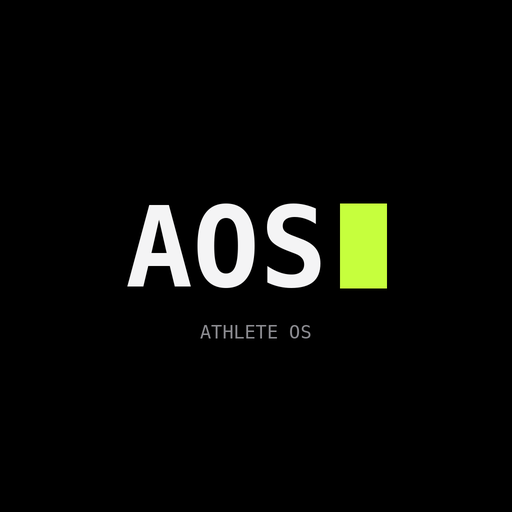
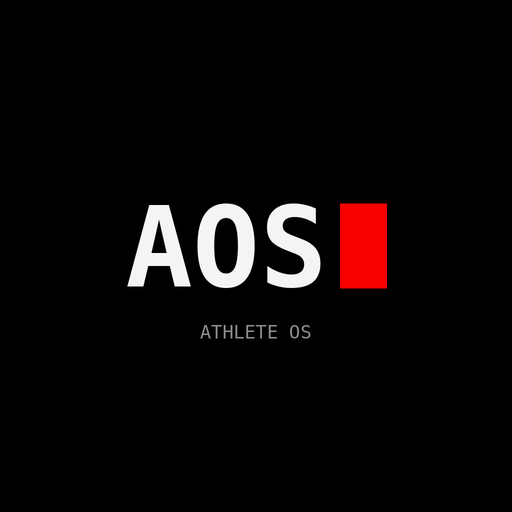
Design: Vereinsrot der Red Tigers (#F60100, Tiefrot #BB271B) statt Lime, Fehler in Orange mit ⚠, App-Symbol rot
Claude-Session: https://claude.ai/code/session_01UpkBZMUu6Uj98YywTxktUF

Changed region(s): [[0.6562, 0.375, 0.7812, 0.5625]]

diff --git a/index.html b/index.html
@@ -4,8 +4,8 @@
 <meta charset="utf-8">
 <meta name="viewport" content="width=device-width, initial-scale=1, viewport-fit=cover">
 <link rel="manifest" href="manifest.webmanifest">
-<link rel="apple-touch-icon" href="apple-touch-icon.png?v=2">
-<link rel="icon" type="image/png" sizes="192x192" href="icon-192.png?v=2">
+<link rel="apple-touch-icon" href="apple-touch-icon.png?v=3">
+<link rel="icon" type="image/png" sizes="192x192" href="icon-192.png?v=3">
 <meta name="theme-color" content="#000000">
 <meta name="apple-mobile-web-app-capable" content="yes">
 <meta name="mobile-web-app-capable" content="yes">
@@ -144,7 +144,7 @@ details summary{cursor:pointer;color:var(--accent);margin:6px 0}
   --text:#f4f4f5; --muted:#8b8b90; --faint:#55555a;
   --line:rgba(255,255,255,.09); --line2:rgba(255,255,255,.16);
   --accent:#f4f4f5; --accent-ink:#000; --accent-soft:rgba(255,255,255,.08);
-  --warn:#e3b45c; --warn-soft:rgba(227,180,92,.10); --bad:#ff6b6b; --bad-soft:rgba(255,107,107,.10);
+  --warn:#e3b45c; --warn-soft:rgba(227,180,92,.10); --bad:#FF8A1F; --bad-soft:rgba(255,138,31,.12);
   --info:#c9c9ce; --info-soft:rgba(255,255,255,.05);
   --radius:20px;
   --font:-apple-system,BlinkMacSystemFont,"SF Pro Text","SF Pro Display","Inter","Helvetica Neue",Arial,sans-serif;
@@ -189,7 +189,7 @@ button:active{transform:scale(.98)}
 button.primary{background:#f4f4f5;color:#000;border-color:#f4f4f5;font-weight:600}
 button.primary:hover{background:#fff}
 button.block{display:block;width:100%}
-button.danger{color:var(--bad);border-color:rgba(255,107,107,.4)}
+button.danger{color:var(--bad);border-color:rgba(255,138,31,.45)}
 button.link{color:var(--text);text-decoration:none;border-bottom:1px solid var(--line2);border-radius:0;padding:2px 0;margin:0 2px;min-height:auto}
 button.small{padding:6px 14px;min-height:36px;font-size:.84rem}
 button.chip{border-radius:999px;background:transparent;border:1px solid var(--line2);color:var(--text);min-height:40px;padding:7px 15px;font-size:.88rem}
@@ -213,7 +213,7 @@ details[open]>summary::before{content:'–'}
 .badge.ok{color:var(--text);border-color:rgba(255,255,255,.35);background:transparent}
 .badge.info{color:var(--muted);background:transparent;border-color:var(--line2)}
 .badge.warn{color:var(--warn);border-color:rgba(227,180,92,.4);background:transparent}
-.badge.bad{color:var(--bad);border-color:rgba(255,107,107,.4);background:transparent}
+.badge.bad{color:var(--bad);border-color:rgba(255,138,31,.45);background:transparent}
 .cap{background:transparent;border:1px solid var(--line2);color:var(--text);font-size:.68rem;letter-spacing:.12em;text-transform:uppercase;font-weight:600;padding:4px 10px}
 
 /* Wochenstreifen */
@@ -274,7 +274,7 @@ nav.tabs button[aria-current="page"]{background:var(--surface2);color:var(--text
 }
 
 /* ===== Variante B (Signal) mit Code-Schrift ===== */
-:root{ --font:"SF Mono",ui-monospace,"JetBrains Mono","Roboto Mono",Menlo,Consolas,monospace; --sig:#c6ff3d; --sig-soft:rgba(198,255,61,.12) }
+:root{ --font:"SF Mono",ui-monospace,"JetBrains Mono","Roboto Mono",Menlo,Consolas,monospace; --sig:#F60100; --sig-deep:#BB271B; --sig-ink:#fff; --sig-soft:rgba(246,1,0,.12) }
 body{letter-spacing:0;font-size:15px}
 h1{font-size:1.6rem;letter-spacing:-.02em;font-weight:600}
 h2,.eyebrow,label,th,.badge,.cap{letter-spacing:.08em}
@@ -285,26 +285,26 @@ dialog h2::before{content:none}
 .hero .dot{display:inline-block;width:7px;height:7px;border-radius:50%;background:var(--sig);margin-right:8px;box-shadow:0 0 10px var(--sig);vertical-align:1px}
 .ex-name{font-size:.95rem}
 button,.btn{font-size:.88rem}
-button.primary,button.primary:hover{background:var(--sig);border-color:var(--sig);color:#000}
-button.chip[aria-pressed="true"]{background:var(--sig);border-color:var(--sig);color:#000}
+button.primary,button.primary:hover{background:var(--sig);border-color:var(--sig);color:var(--sig-ink)}
+button.chip[aria-pressed="true"]{background:var(--sig);border-color:var(--sig);color:var(--sig-ink)}
 input:focus,select:focus,textarea:focus{border-color:var(--sig)}
 :focus-visible{outline-color:var(--sig)}
 .weekstrip .day.today{background:transparent;box-shadow:inset 0 0 0 1px var(--sig)}
 .weekstrip .day.today .dn{color:var(--sig)}
 .weekstrip .day.today .wd{color:var(--text)}
-.badge.ok{color:var(--sig);border-color:rgba(198,255,61,.45)}
+.badge.ok{color:var(--text);border-color:rgba(246,1,0,.55)}
 .chart .ln{stroke:var(--sig)} .chart .pt{fill:var(--sig)}
 .brand{letter-spacing:.3em}
 .sysbar{display:flex;gap:10px;font-size:.66rem;letter-spacing:.04em;color:var(--muted);white-space:nowrap}
 .sysbar b{color:var(--text);font-weight:500}
-.sysbar .sd.ok{color:var(--sig)} .sysbar .sd.run{color:var(--text)} .sysbar .sd.err{color:var(--bad)} .sysbar .sd.off{color:var(--faint)}
+.sysbar .sd.ok{color:var(--text)} .sysbar .sd.run{color:var(--text)} .sysbar .sd.err{color:var(--bad)} .sysbar .sd.off{color:var(--faint)}
 nav.tabs button{font-size:.72rem;letter-spacing:.02em}
-nav.tabs button[aria-current="page"]{color:#000;background:var(--sig)}
+nav.tabs button[aria-current="page"]{color:var(--sig-ink);background:var(--sig)}
 @media (max-width:760px){
   nav.tabs{padding:5px 6px;justify-content:space-evenly;gap:0}
   nav.tabs button{flex:0 0 auto;min-width:0;min-height:44px;font-size:clamp(8px,2.6vw,.6rem);letter-spacing:-.02em;padding:0 clamp(4px,1.8vw,8px);justify-content:center;border-radius:22px;white-space:nowrap}
   button.chip{padding:7px 12px}
-  nav.tabs button[aria-current="page"]{background:var(--sig);color:#000}
+  nav.tabs button[aria-current="page"]{background:var(--sig);color:var(--sig-ink)}
   h1{font-size:1.5rem}
   .hero .hero-title{font-size:1.25rem}
 }
@@ -328,7 +328,7 @@ nav.tabs button[aria-current="page"]{color:#000;background:var(--sig)}
 nav.tabs button svg{width:22px;height:22px;flex:none}
 nav.tabs button svg .f{fill:currentColor;stroke:none}
 nav.tabs button{justify-content:center;align-items:center}
-nav.tabs button[aria-current="page"]{color:#000;background:var(--sig)}
+nav.tabs button[aria-current="page"]{color:var(--sig-ink);background:var(--sig)}
 @media (min-width:761px){ nav.tabs button{padding:8px 14px} }
 @media (max-width:760px){
   nav.tabs{display:grid!important;grid-template-columns:repeat(6,1fr);padding:6px;gap:4px}
@@ -384,9 +384,9 @@ main table:not(.stack) td button{white-space:nowrap}
 .mb-n{grid-area:n;font-size:.75rem;color:var(--muted);white-space:nowrap}
 .mb-bar{grid-area:b;height:6px;background:var(--surface3);border-radius:3px;overflow:hidden}
 .mb-bar i{display:block;height:100%;background:var(--muted);border-radius:3px}
-.mb-row.ok .mb-bar i{background:var(--sig)} .mb-row.ok .mb-n{color:var(--sig)}
+.mb-bar i{background:var(--sig-deep)!important} .mb-row.ok .mb-bar i{background:var(--sig)!important} .mb-row.ok .mb-n{color:var(--text)}
 .mb-row.over .mb-bar i{background:var(--warn)} .mb-row.over .mb-n{color:var(--warn)}
-.off-at{display:inline-block;font-size:.6rem;font-weight:700;letter-spacing:.08em;color:#000;background:var(--sig);border-radius:4px;padding:1px 5px;margin-right:6px;vertical-align:2px}
+.off-at{display:inline-block;font-size:.6rem;font-weight:700;letter-spacing:.08em;color:var(--sig-ink);background:var(--sig);border-radius:4px;padding:1px 5px;margin-right:6px;vertical-align:2px}
 /* Trainingsorte */
 .loc-card textarea{width:100%;min-height:76px}
 .loc-card .chip[data-act="locDay"]{min-width:0;padding:6px 0;width:calc((100% - 36px)/7);margin:0 6px 0 0;font-size:.8rem}
@@ -395,6 +395,8 @@ main table:not(.stack) td button{white-space:nowrap}
 .chips10{display:grid;grid-template-columns:repeat(5,1fr);gap:6px}
 .chips10 .chip{margin:0;min-height:44px;font-weight:600;font-variant-numeric:tabular-nums}
 .field-card{border-color:var(--line2)}
+button.primary:active,nav.tabs button[aria-current="page"]:active{background:var(--sig-deep)!important;border-color:var(--sig-deep)!important}
+.sysbar .sd.err::before{content:'⚠ '}
 @media print{
   header.top,nav.tabs,.no-print,button{display:none!important}
   .print-only{display:block}

diff --git a/sw.js b/sw.js
@@ -1,6 +1,6 @@
 /* AOS Service Worker – speichert nur die App-Dateien für den Offline-Start.
    Trainingsdaten laufen nicht über den Service Worker (Anfragen an api.github.com werden nicht zwischengespeichert). */
-const CACHE = 'aos-d6ccc464fdb4';
+const CACHE = 'aos-249fe39cbcf3';
 const FILES = ['./', './index.html', './manifest.webmanifest', './apple-touch-icon.png', './icon-192.png', './icon-512.png', './icon-maskable-512.png'];
 
 self.addEventListener('install', e => {
